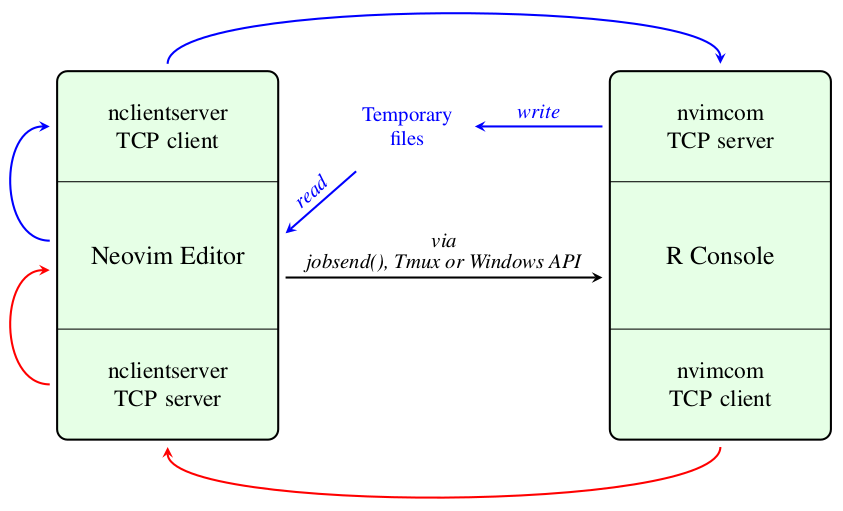
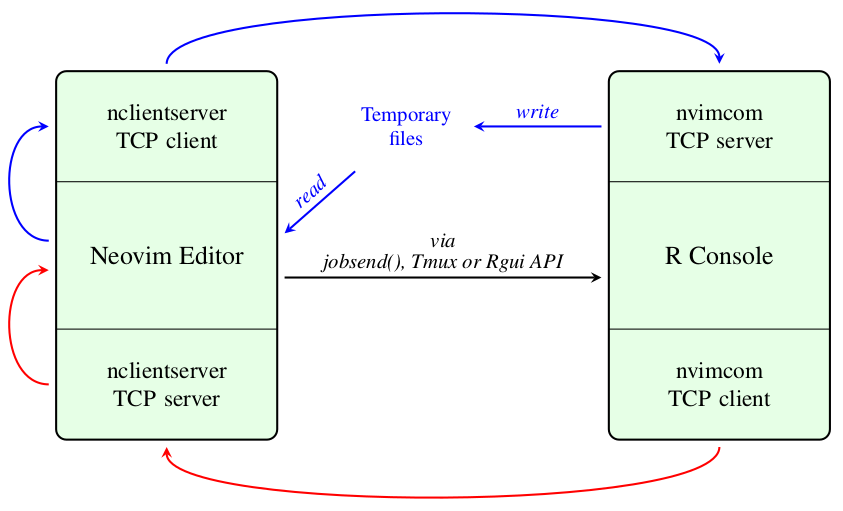
Update nvimrcom.png (months later the code change)

diff --git a/R/nvimcom/nvimrcom.tex b/R/nvimcom/nvimrcom.tex
@@ -39,7 +39,7 @@
         \footnotesize
         \draw [->, thick] (3.1, 3.7) -- (7.4, 3.7);
         \node at (5.25, 4.2) {\emph{via}};
-        \node at (5.25, 3.9) {\emph{jobsend(), Tmux or Windows API}};
+        \node at (5.25, 3.9) {\emph{jobsend(), Tmux or Rgui API}};
         \draw [<-, thick, red] (-0.1, 3.8) .. controls (-0.8, 3.8) and (-0.8, 2.25) .. (-0.1, 2.25);
         \draw [<-, thick, blue] (-0.1, 5.75) .. controls (-0.8, 5.75) and (-0.8, 4.2) .. (-0.1, 4.2);
         \draw [<-, thick, blue] (9, 6.6) .. controls (9, 7.5) and (1.5, 7.5) .. (1.5, 6.6);
